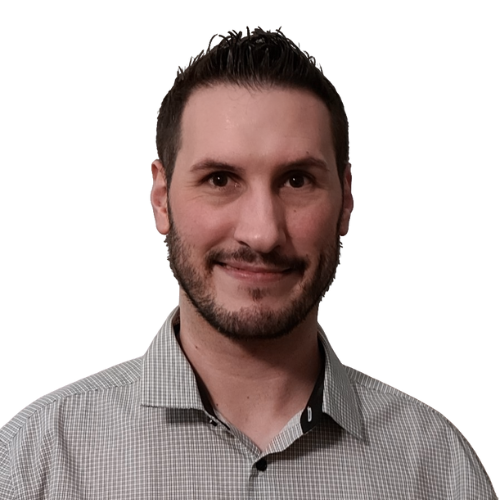
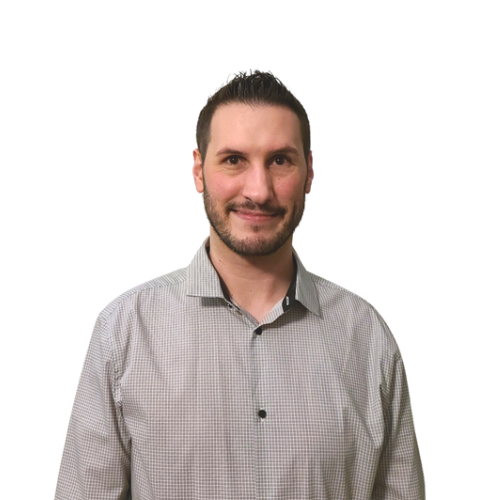
about section background and image

diff --git a/src/features/footer/Footer.js b/src/features/footer/Footer.js
@@ -12,20 +12,17 @@ const Footer = () => {
 
   return (
     <footer className="App-footer">
-      <div
-        id="contact-box"
-        className={
-          contactBoxVisible ? "bounce-in-top text-focus-in" : "text-blur-out"
-        }
-      >
+      <div id="contact-box" className="bounce-in-top text-focus-in">
         <span>
-          <a
-            id="email"
-            href="mailto:chris@chrosslaw.com"
-            className="text-focus-in"
-          >
-            <ContactMailRoundedIcon color="primary" /> CHRIS@CHROSSLAW.COM
-          </a>
+          {contactBoxVisible && (
+            <a
+              id="email"
+              href="mailto:chris@chrosslaw.com"
+              className="text-focus-in"
+            >
+              <ContactMailRoundedIcon color="primary" /> CHRIS@CHROSSLAW.COM
+            </a>
+          )}
         </span>
         <br />
       </div>

diff --git a/src/features/main/Main.js b/src/features/main/Main.js
@@ -1,16 +1,14 @@
 import * as React from "react";
-import CssBaseline from "@mui/material/CssBaseline";
-import Box from "@mui/material/Box";
-import Container from "@mui/material/Container";
+// import Skills from "./Skills";
+import About from "./About";
+// import Projects from "./Projects";
+
 const Main = ({ activePage }) => {
   return (
     <main className={`main ${activePage}`}>
-      <React.Fragment>
-        <CssBaseline />
-        <Container maxWidth="lg" fixed>
-          <Box sx={{ bgcolor: "#ffffff", height: "100vh" }} />
-        </Container>
-      </React.Fragment>
+      {activePage === "About" && <About />}
+      {/* {activePage === "Skills" && <Skills />}
+      {activePage === "Projects" && <Projects />} */}
     </main>
   );
 };

diff --git a/src/features/main/About.js b/src/features/main/About.js
@@ -1,0 +1,37 @@
+import React from "react";
+import myPhoto from "../../img/photos/chris-no-bg.png";
+import {
+  Card,
+  CardHeader,
+  CardContent,
+  CardActions,
+  Button,
+  CardMedia,
+} from "@mui/material";
+import { styled } from "@mui/material/styles";
+
+const ResponsiveImage = styled(CardMedia)`
+  width: 100%;
+  height: auto;
+
+  @media (min-width: 600px) {
+    max-width: 400px;
+    margin: 0 auto;
+  }
+
+  @media (min-width: 960px) {
+    max-width: 600px;
+  }
+`;
+
+const About = () => {
+  return (
+    <div className="about-background">
+      <div>
+        <ResponsiveImage component="img" image={myPhoto} alt="My Photo" />
+      </div>
+    </div>
+  );
+};
+
+export default About;

diff --git a/src/app/App.css b/src/app/App.css
@@ -62,7 +62,7 @@
   width: 80vw;
   margin: 5px auto 10px auto;
   border-radius: 15px;
-  padding: 50px;
+  padding: 60px;
 }
 
 .content {
@@ -78,6 +78,23 @@
   background-color: #2c3428;
 }
 /* end main styling */
+
+/* about page styling*/
+div.about-background {
+  position: relative;
+  display: flex;
+  height: 90%;
+  width: 90%;
+  background-image: url("../img/photos/office-background.png");
+  background-position: center;
+}
+.myPhoto {
+  position: absolute;
+  left: 0;
+  bottom: 0;
+}
+
+/* end about page styling*/
 
 /* navigation styling */
 .nav {

diff --git a/src/features/logo-bar/LogoBar.js b/src/features/logo-bar/LogoBar.js
@@ -4,7 +4,6 @@ import Logo from "./Logo";
 const LogoBar = () => {
   const [logos, setLogos] = useState([]);
   const sliderRef = useRef(null);
-  const logoWidth = 120; // width of each logo element
 
   useEffect(() => {
     const logoPaths = require
@@ -31,7 +30,7 @@ const LogoBar = () => {
   useEffect(() => {
     function moveLogos() {
       const slider = sliderRef.current;
-
+      const logoWidth = 120; // width of each logo element
       let pos = 0;
 
       function updateLogos() {

diff --git a/public/index.html b/public/index.html
@@ -2,12 +2,7 @@
 <html lang="en">
   <head>
     <meta charset="utf-8" />
-    <link rel="icon" href="%PUBLIC_URL%/favicon.png" />
-    <link
-      rel="stylesheet"
-      href="https://kit.fontawesome.com/32e46950bf.css"
-      crossorigin="anonymous"
-    />
+
     <script
       src="https://kit.fontawesome.com/32e46950bf.js"
       crossorigin="anonymous"
